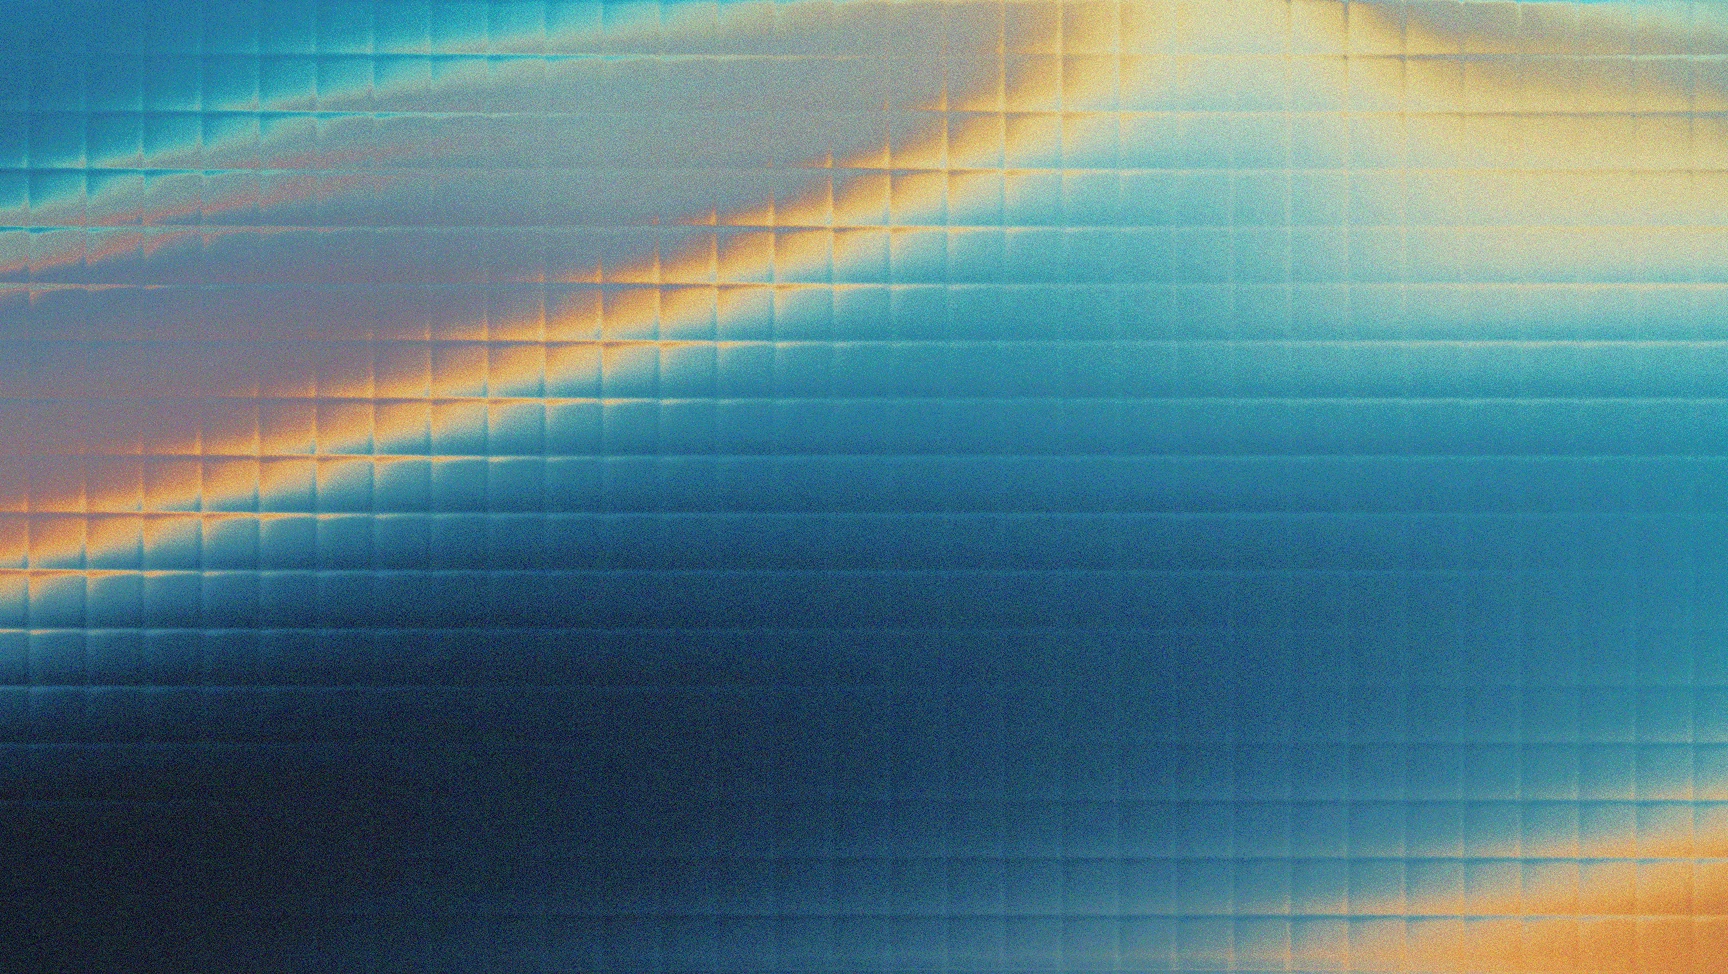
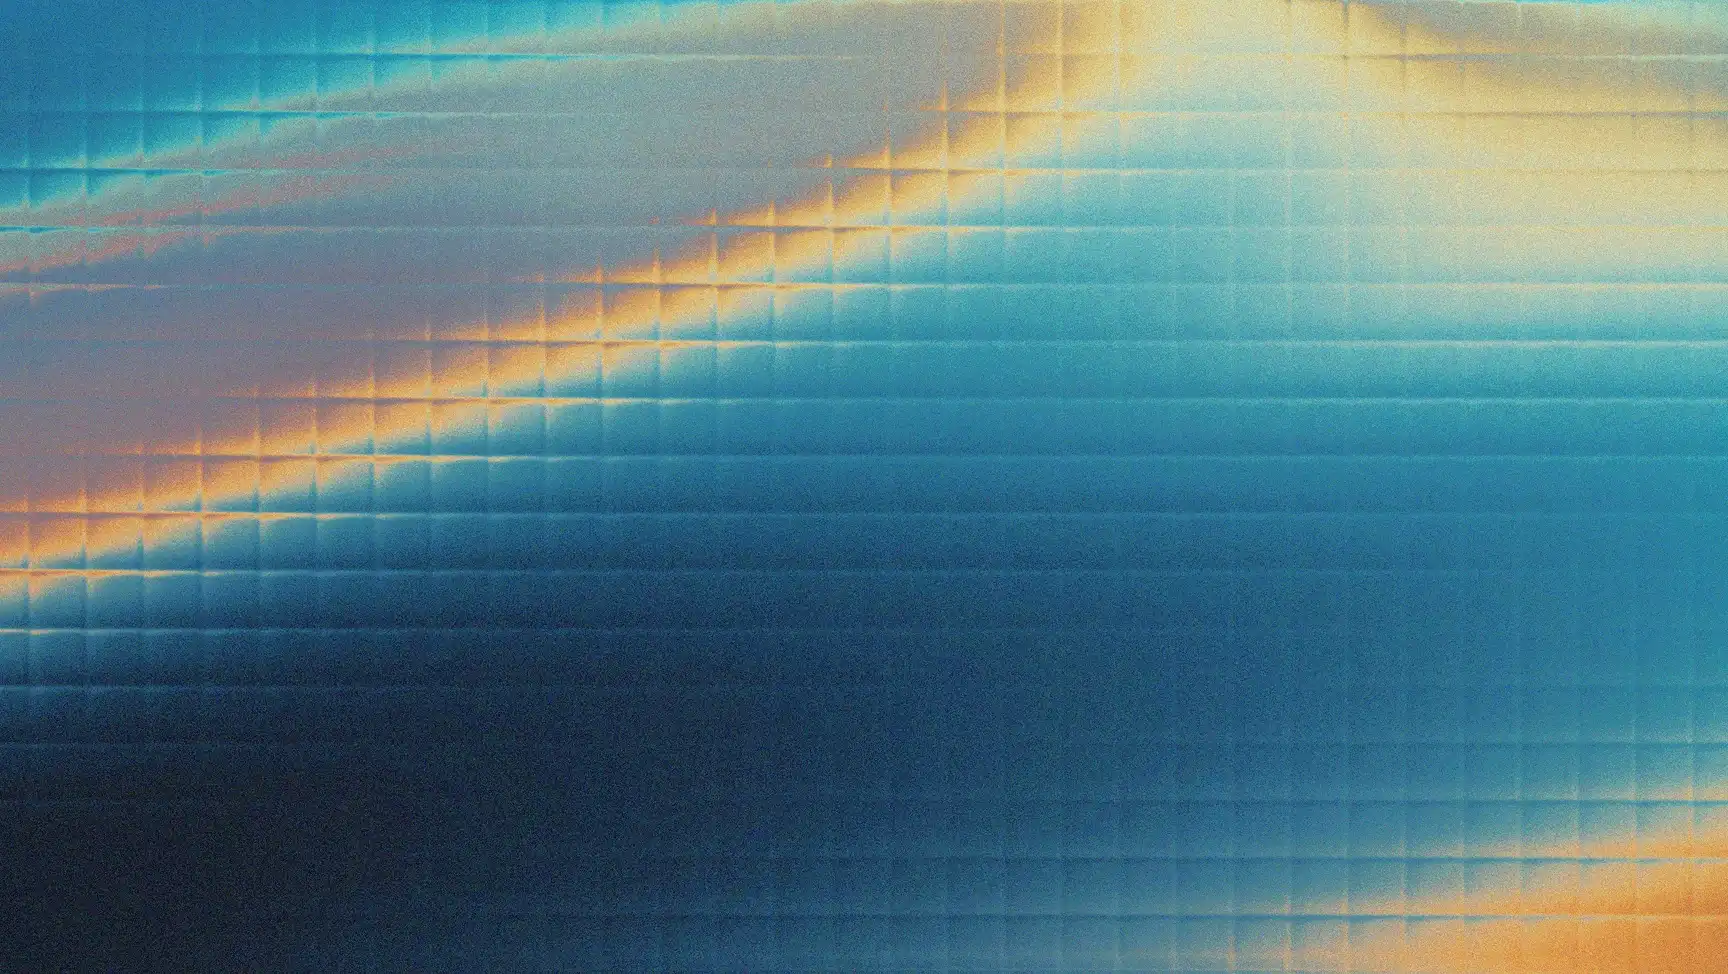
update: file size improve

diff --git a/src/components/HeroSectionV2.tsx b/src/components/HeroSectionV2.tsx
@@ -27,7 +27,7 @@ const HeroSectionV2: React.FC = () => {
   };
 
   return (
-    <section className="flex flex-col items-center justify-center max-w-full mx-auto relative min-h-screen bg-cover bg-center bg-no-repeat" style={{ backgroundImage: 'url(/images/bg.webp)', backgroundSize: 'cover', backgroundPosition: 'center', backgroundRepeat: 'no-repeat' }}>
+    <section className="flex flex-col items-center justify-center max-w-full mx-auto relative min-h-screen bg-cover bg-center bg-no-repeat" style={{ backgroundImage: 'url(https://ik.imagekit.io/rekruiter/Watchdog/bg.webp)', backgroundSize: 'cover', backgroundPosition: 'center', backgroundRepeat: 'no-repeat' }}>
       {/* Animated Gradient Background */}
       {/* <div className="absolute inset-0 w-full h-full z-0 pointer-events-none">
         <ColorGradient />

diff --git a/src/pages/Index.tsx b/src/pages/Index.tsx
@@ -13,7 +13,7 @@ const Index = () => {
     <div
       className="min-h-screen flex flex-col items-center justify-center relative"
       style={{
-        backgroundImage: 'url(/images/home-bg.webp)',
+        backgroundImage: 'url(https://ik.imagekit.io/rekruiter/Watchdog/home-bg.webp)',
         backgroundSize: 'cover',
         backgroundPosition: 'center',
         backgroundRepeat: 'no-repeat',
